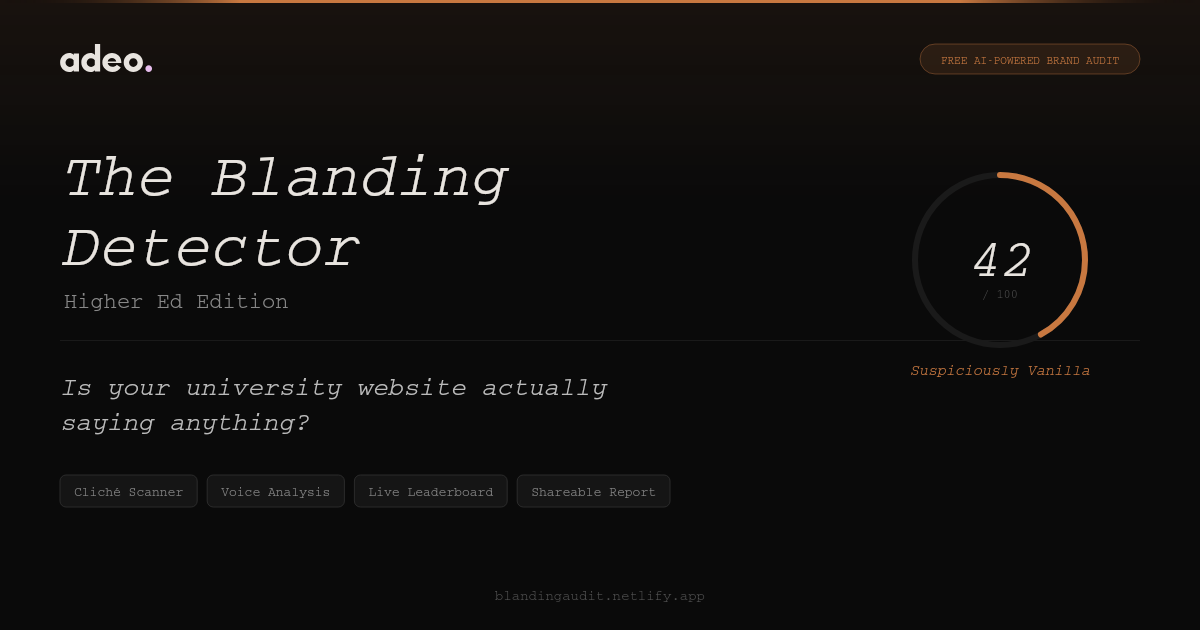
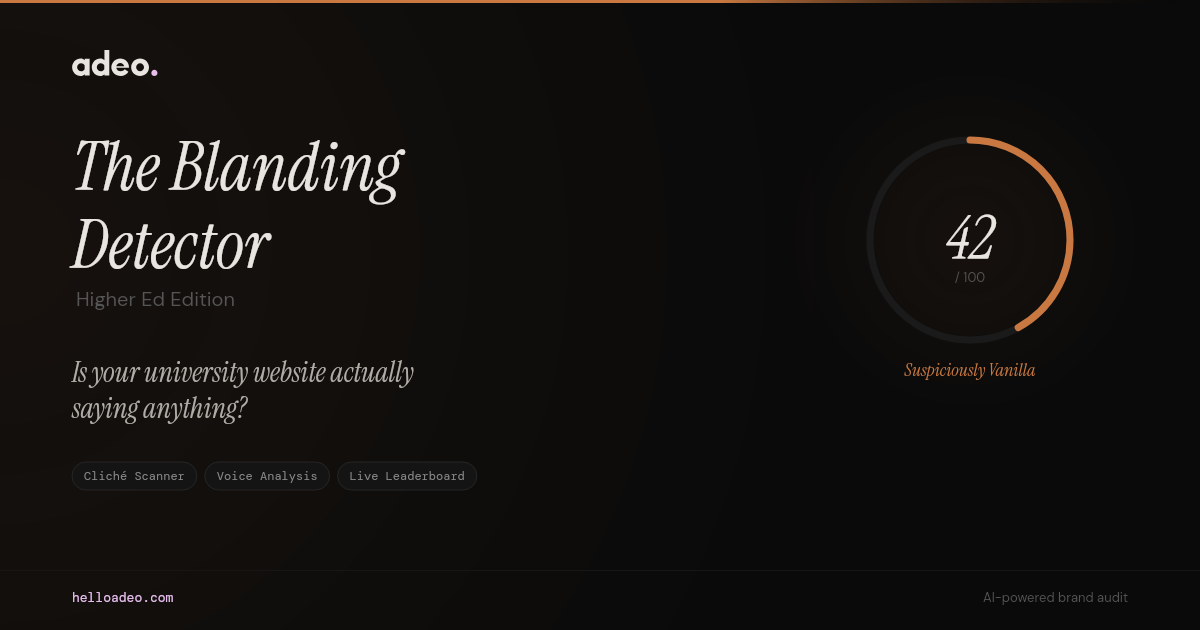
Redesign OG social card with app fonts, cleaner layout, adeo link
- Load DM Sans, DM Mono, Instrument Serif via @fontsource
- Clean two-column layout: title + hook left, score ring right
- Remove FREE badge, add helloadeo.com in lavender at bottom
- Subtle warm radial glow instead of hard gradient line

diff --git a/generate-og.js b/generate-og.js
@@ -2,21 +2,30 @@
  * Generate OG social card image (1200x630) for The Blanding Detector
  * Run: node generate-og.js
  */
-const { createCanvas, Path2D } = require("@napi-rs/canvas");
+const { createCanvas, Path2D, GlobalFonts } = require("@napi-rs/canvas");
 const fs = require("fs");
+const path = require("path");
+
+// ─── Register app fonts ───
+const fontDir = path.join(__dirname, "node_modules/@fontsource");
+GlobalFonts.register(fs.readFileSync(`${fontDir}/dm-sans/files/dm-sans-latin-400-normal.woff2`), "DM Sans");
+GlobalFonts.register(fs.readFileSync(`${fontDir}/dm-sans/files/dm-sans-latin-500-normal.woff2`), "DM Sans Medium");
+GlobalFonts.register(fs.readFileSync(`${fontDir}/dm-sans/files/dm-sans-latin-300-normal.woff2`), "DM Sans Light");
+GlobalFonts.register(fs.readFileSync(`${fontDir}/dm-mono/files/dm-mono-latin-400-normal.woff2`), "DM Mono");
+GlobalFonts.register(fs.readFileSync(`${fontDir}/instrument-serif/files/instrument-serif-latin-400-normal.woff2`), "Instrument Serif");
+GlobalFonts.register(fs.readFileSync(`${fontDir}/instrument-serif/files/instrument-serif-latin-400-italic.woff2`), "Instrument Serif Italic");
 
 const W = 1200;
 const H = 630;
 const canvas = createCanvas(W, H);
 const ctx = canvas.getContext("2d");
 
-// Colors matching the app
+// Colors
 const BG = "#0a0a0a";
 const ACCENT = "#c87840";
 const TEXT = "#e8e4df";
 const MUTED = "#888";
 const DIM = "#555";
-const BORDER = "#1a1a1a";
 const LAVENDER = "#E6BDED";
 
 // adeo logo SVG paths
@@ -36,120 +45,114 @@ function drawLogo(x, y, height, color, dotColor) {
   ctx.translate(x, y);
   ctx.scale(scale, scale);
   for (const key of ["a", "d", "e", "o"]) {
-    const p = new Path2D(LOGO_PATHS[key]);
     ctx.fillStyle = color;
-    ctx.fill(p);
+    ctx.fill(new Path2D(LOGO_PATHS[key]));
   }
-  const dotPath = new Path2D(LOGO_PATHS.dot);
   ctx.fillStyle = dotColor;
-  ctx.fill(dotPath);
+  ctx.fill(new Path2D(LOGO_PATHS.dot));
   ctx.restore();
   return (height / LOGO_VBH) * LOGO_VBW;
 }
 
-// Background
+// ═══════════════════════════════════════════
+// BACKGROUND
+// ═══════════════════════════════════════════
 ctx.fillStyle = BG;
 ctx.fillRect(0, 0, W, H);
 
-// Subtle gradient overlay at top
-const topGrad = ctx.createLinearGradient(0, 0, 0, 200);
-topGrad.addColorStop(0, "rgba(200, 120, 64, 0.08)");
-topGrad.addColorStop(1, "rgba(200, 120, 64, 0)");
-ctx.fillStyle = topGrad;
-ctx.fillRect(0, 0, W, 200);
+// Warm gradient wash — left side only, very subtle
+const warmGrad = ctx.createRadialGradient(0, H * 0.4, 0, 0, H * 0.4, W * 0.7);
+warmGrad.addColorStop(0, "rgba(200, 120, 64, 0.07)");
+warmGrad.addColorStop(1, "rgba(200, 120, 64, 0)");
+ctx.fillStyle = warmGrad;
+ctx.fillRect(0, 0, W, H);
 
 // Accent line at top
 const lineGrad = ctx.createLinearGradient(0, 0, W, 0);
-lineGrad.addColorStop(0, "transparent");
-lineGrad.addColorStop(0.2, ACCENT);
-lineGrad.addColorStop(0.8, ACCENT);
+lineGrad.addColorStop(0, ACCENT);
+lineGrad.addColorStop(0.6, ACCENT);
 lineGrad.addColorStop(1, "transparent");
 ctx.fillStyle = lineGrad;
 ctx.fillRect(0, 0, W, 3);
 
-// adeo logo top-left
-drawLogo(60, 44, 28, TEXT, LAVENDER);
+// ═══════════════════════════════════════════
+// LEFT COLUMN — text content
+// ═══════════════════════════════════════════
+const LX = 72; // left margin
 
-// "BRAND AUDIT TOOL" pill — top right
-ctx.fillStyle = ACCENT + "20";
-ctx.beginPath();
-ctx.roundRect(W - 280, 44, 220, 30, 15);
-ctx.fill();
-ctx.strokeStyle = ACCENT + "60";
-ctx.lineWidth = 1;
-ctx.beginPath();
-ctx.roundRect(W - 280, 44, 220, 30, 15);
-ctx.stroke();
-ctx.fillStyle = ACCENT;
-ctx.font = '500 11px "Helvetica Neue", Arial, sans-serif';
-ctx.textAlign = "center";
-ctx.fillText("FREE AI-POWERED BRAND AUDIT", W - 170, 64);
+// adeo logo
+drawLogo(LX, 50, 26, TEXT, LAVENDER);
 
 // Main title
 ctx.textAlign = "left";
 ctx.fillStyle = TEXT;
-ctx.font = 'italic 62px Georgia, "Times New Roman", serif';
-ctx.fillText("The Blanding", 60, 195);
-ctx.fillText("Detector", 60, 265);
+ctx.font = 'italic 68px "Instrument Serif Italic"';
+ctx.fillText("The Blanding", LX, 190);
+ctx.fillText("Detector", LX, 268);
 
 // Subtitle
-ctx.font = '400 22px "Helvetica Neue", Arial, sans-serif';
-ctx.fillStyle = MUTED;
-ctx.fillText("Higher Ed Edition", 64, 308);
+ctx.font = '400 20px "DM Sans"';
+ctx.fillStyle = DIM;
+ctx.fillText("Higher Ed Edition", LX + 4, 306);
 
-// Divider line
-ctx.fillStyle = BORDER;
-ctx.fillRect(60, 340, W - 120, 1);
+// Hook text — the compelling question
+ctx.font = 'italic 28px "Instrument Serif Italic"';
+ctx.fillStyle = "#b0aca6";
+ctx.fillText("Is your university website actually", LX, 382);
+ctx.fillText("saying anything?", LX, 418);
 
-// Hook text
-ctx.font = 'italic 26px Georgia, "Times New Roman", serif';
-ctx.fillStyle = "#bbb";
-ctx.fillText("Is your university website actually", 60, 395);
-ctx.fillText("saying anything?", 60, 430);
-
-// Feature pills
-const pills = ["Cliché Scanner", "Voice Analysis", "Live Leaderboard", "Shareable Report"];
-let pillX = 60;
-const pillY = 475;
-ctx.font = '500 13px "Helvetica Neue", Arial, sans-serif';
+// Feature pills row
+const pills = ["Cliché Scanner", "Voice Analysis", "Live Leaderboard"];
+let pillX = LX;
+const pillY = 462;
+ctx.font = '400 12px "DM Mono"';
 pills.forEach((label) => {
   const tw = ctx.measureText(label).width;
-  const pw = tw + 28;
-  // pill background
-  ctx.fillStyle = "#151515";
+  const pw = tw + 24;
+  ctx.fillStyle = "#141414";
   ctx.beginPath();
-  ctx.roundRect(pillX, pillY, pw, 32, 6);
+  ctx.roundRect(pillX, pillY, pw, 28, 14);
   ctx.fill();
-  ctx.strokeStyle = "#2a2a2a";
+  ctx.strokeStyle = "#252525";
   ctx.lineWidth = 1;
   ctx.beginPath();
-  ctx.roundRect(pillX, pillY, pw, 32, 6);
+  ctx.roundRect(pillX, pillY, pw, 28, 14);
   ctx.stroke();
-  // pill text
   ctx.fillStyle = MUTED;
   ctx.textAlign = "center";
-  ctx.fillText(label, pillX + pw / 2, pillY + 21);
+  ctx.fillText(label, pillX + pw / 2, pillY + 18);
   ctx.textAlign = "left";
-  pillX += pw + 10;
+  pillX += pw + 8;
 });
 
-// Score ring illustration — right side
-const ringX = W - 200;
-const ringY = 260;
-const ringR = 85;
-const ringStroke = 6;
+// ═══════════════════════════════════════════
+// RIGHT COLUMN — score ring (centered, no overlap)
+// ═══════════════════════════════════════════
+const ringX = W - 230;
+const ringY = 240;
+const ringR = 100;
+const ringStroke = 7;
 
-// Ring background
+// Subtle glow behind the ring
+const glowGrad = ctx.createRadialGradient(ringX, ringY, ringR * 0.3, ringX, ringY, ringR * 1.8);
+glowGrad.addColorStop(0, "rgba(200, 120, 64, 0.06)");
+glowGrad.addColorStop(1, "rgba(200, 120, 64, 0)");
+ctx.fillStyle = glowGrad;
+ctx.fillRect(ringX - ringR * 2, ringY - ringR * 2, ringR * 4, ringR * 4);
+
+// Ring background track
 ctx.beginPath();
 ctx.arc(ringX, ringY, ringR, 0, Math.PI * 2);
 ctx.strokeStyle = "#1a1a1a";
 ctx.lineWidth = ringStroke;
 ctx.stroke();
 
-// Ring progress (show ~42 score = mediocre)
+// Ring progress arc (42/100 — bad enough to be provocative)
 const score = 42;
 const startAngle = -Math.PI / 2;
 const endAngle = startAngle + (Math.PI * 2 * score) / 100;
+
+// Gradient on the arc
 ctx.beginPath();
 ctx.arc(ringX, ringY, ringR, startAngle, endAngle);
 ctx.strokeStyle = ACCENT;
@@ -160,25 +163,40 @@ ctx.lineCap = "butt";
 
 // Score number
 ctx.fillStyle = TEXT;
-ctx.font = 'italic 52px Georgia, "Times New Roman", serif';
+ctx.font = 'italic 60px "Instrument Serif Italic"';
 ctx.textAlign = "center";
-ctx.fillText(String(score), ringX, ringY + 16);
+ctx.fillText(String(score), ringX, ringY + 18);
 
-// Score label
-ctx.font = '400 12px "Helvetica Neue", Arial, sans-serif';
+// "/ 100"
+ctx.font = '400 13px "DM Sans"';
 ctx.fillStyle = DIM;
-ctx.fillText("/ 100", ringX, ringY + 38);
+ctx.fillText("/ 100", ringX, ringY + 42);
 
-// Label under ring
-ctx.font = 'italic 15px Georgia, "Times New Roman", serif';
+// Score label — italic, warm
+ctx.font = 'italic 18px "Instrument Serif Italic"';
 ctx.fillStyle = ACCENT;
-ctx.fillText("Suspiciously Vanilla", ringX, ringY + ringR + 30);
+ctx.fillText("Suspiciously Vanilla", ringX, ringY + ringR + 36);
 
-// URL at bottom
-ctx.font = '500 14px "Helvetica Neue", Arial, sans-serif';
+// ═══════════════════════════════════════════
+// BOTTOM BAR
+// ═══════════════════════════════════════════
+
+// Divider line
+const barY = H - 60;
+ctx.fillStyle = "#161616";
+ctx.fillRect(0, barY, W, 1);
+
+// helloadeo.com — left
+ctx.font = '400 13px "DM Mono"';
+ctx.fillStyle = LAVENDER;
+ctx.textAlign = "left";
+ctx.fillText("helloadeo.com", LX, barY + 32);
+
+// "Brand audit by adeo" — right, with small logo
+ctx.font = '400 13px "DM Sans"';
 ctx.fillStyle = DIM;
-ctx.textAlign = "center";
-ctx.fillText("blandingaudit.netlify.app", W / 2, H - 30);
+ctx.textAlign = "right";
+ctx.fillText("AI-powered brand audit", W - 72, barY + 32);
 
 // Save
 const buf = canvas.toBuffer("image/png");
